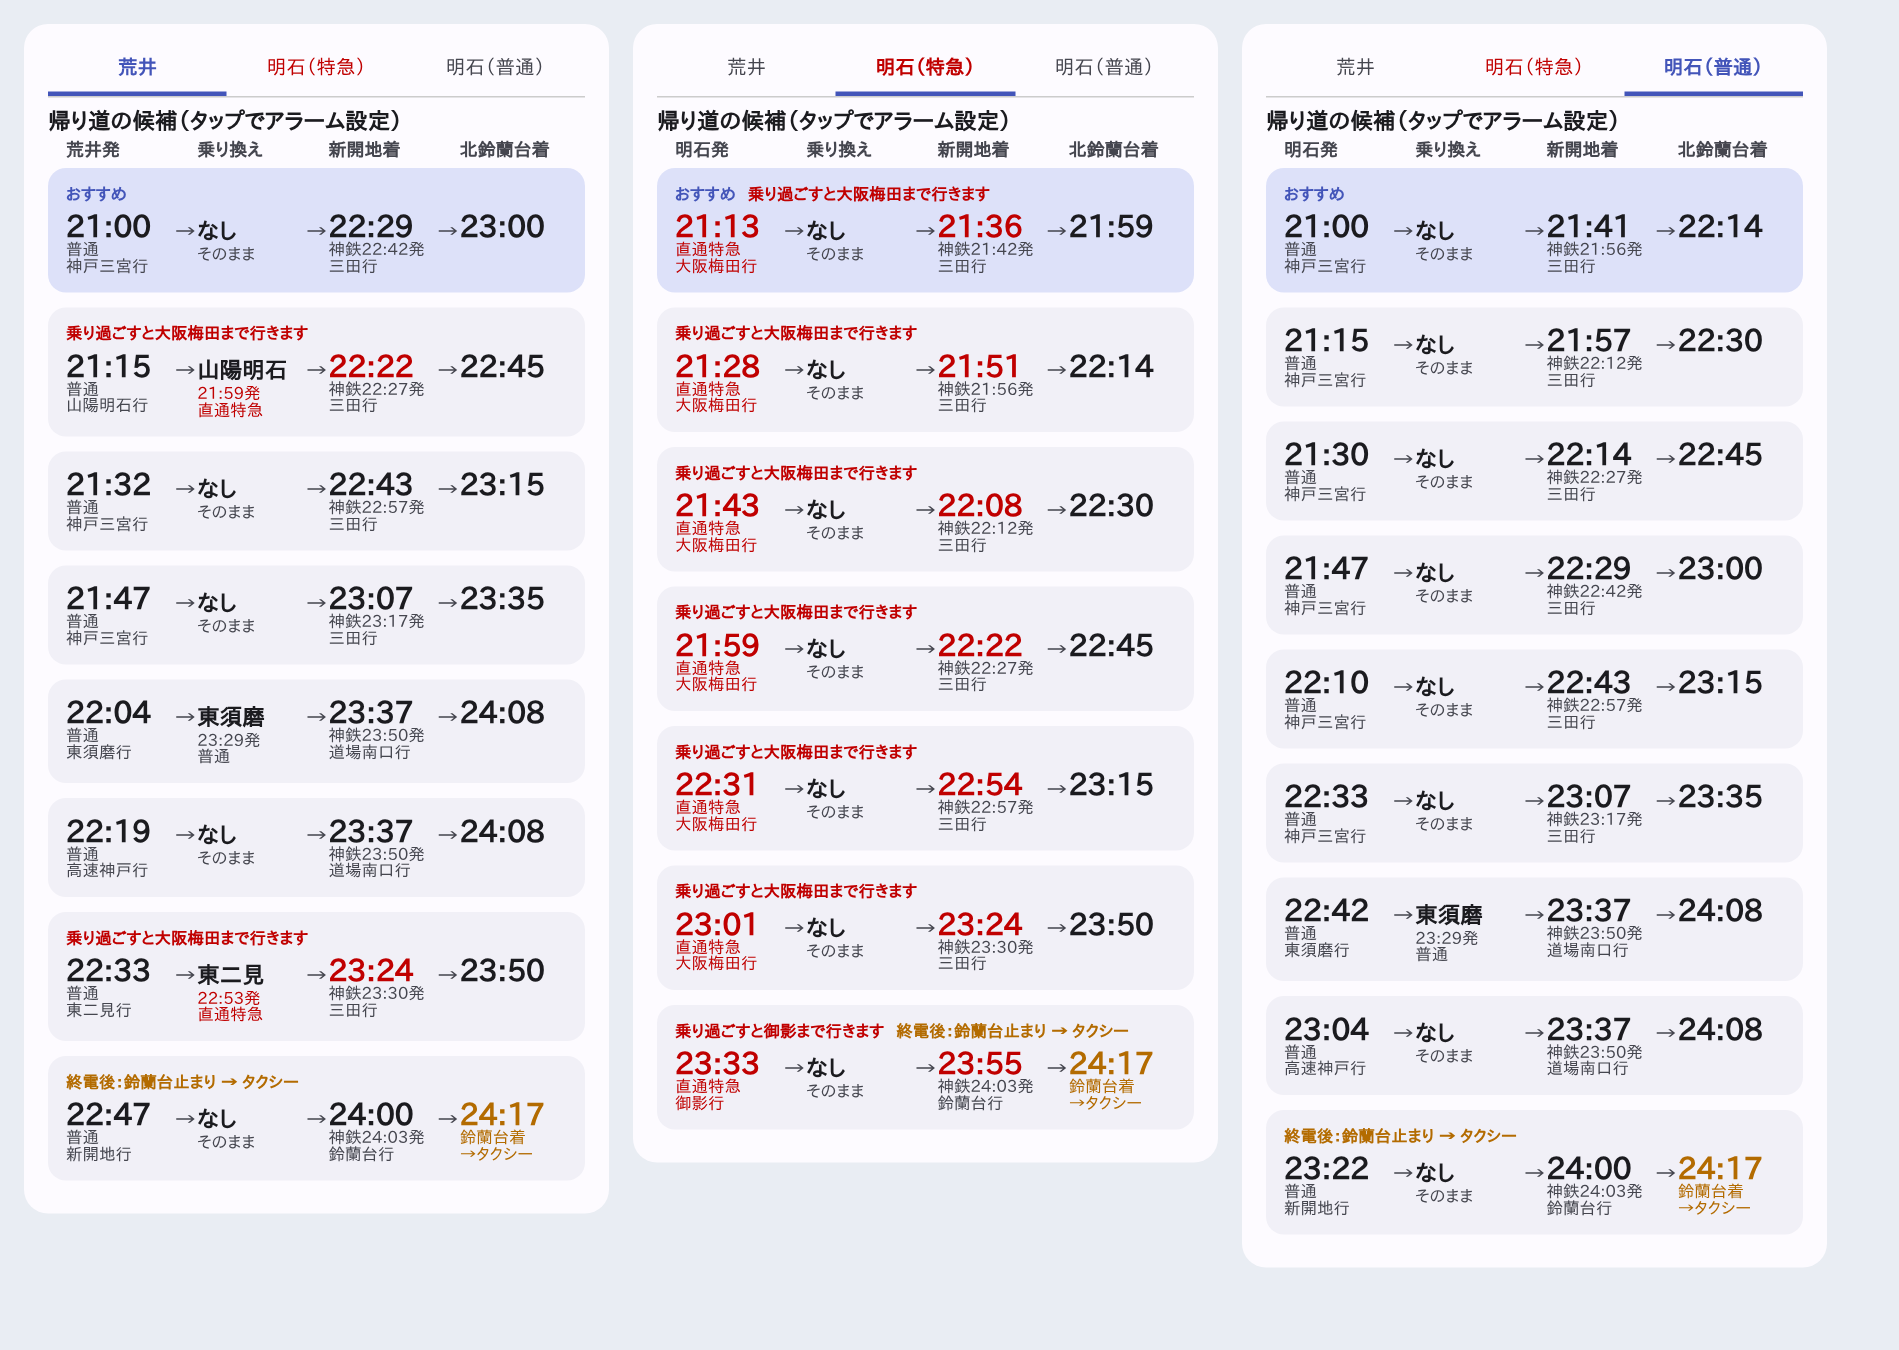
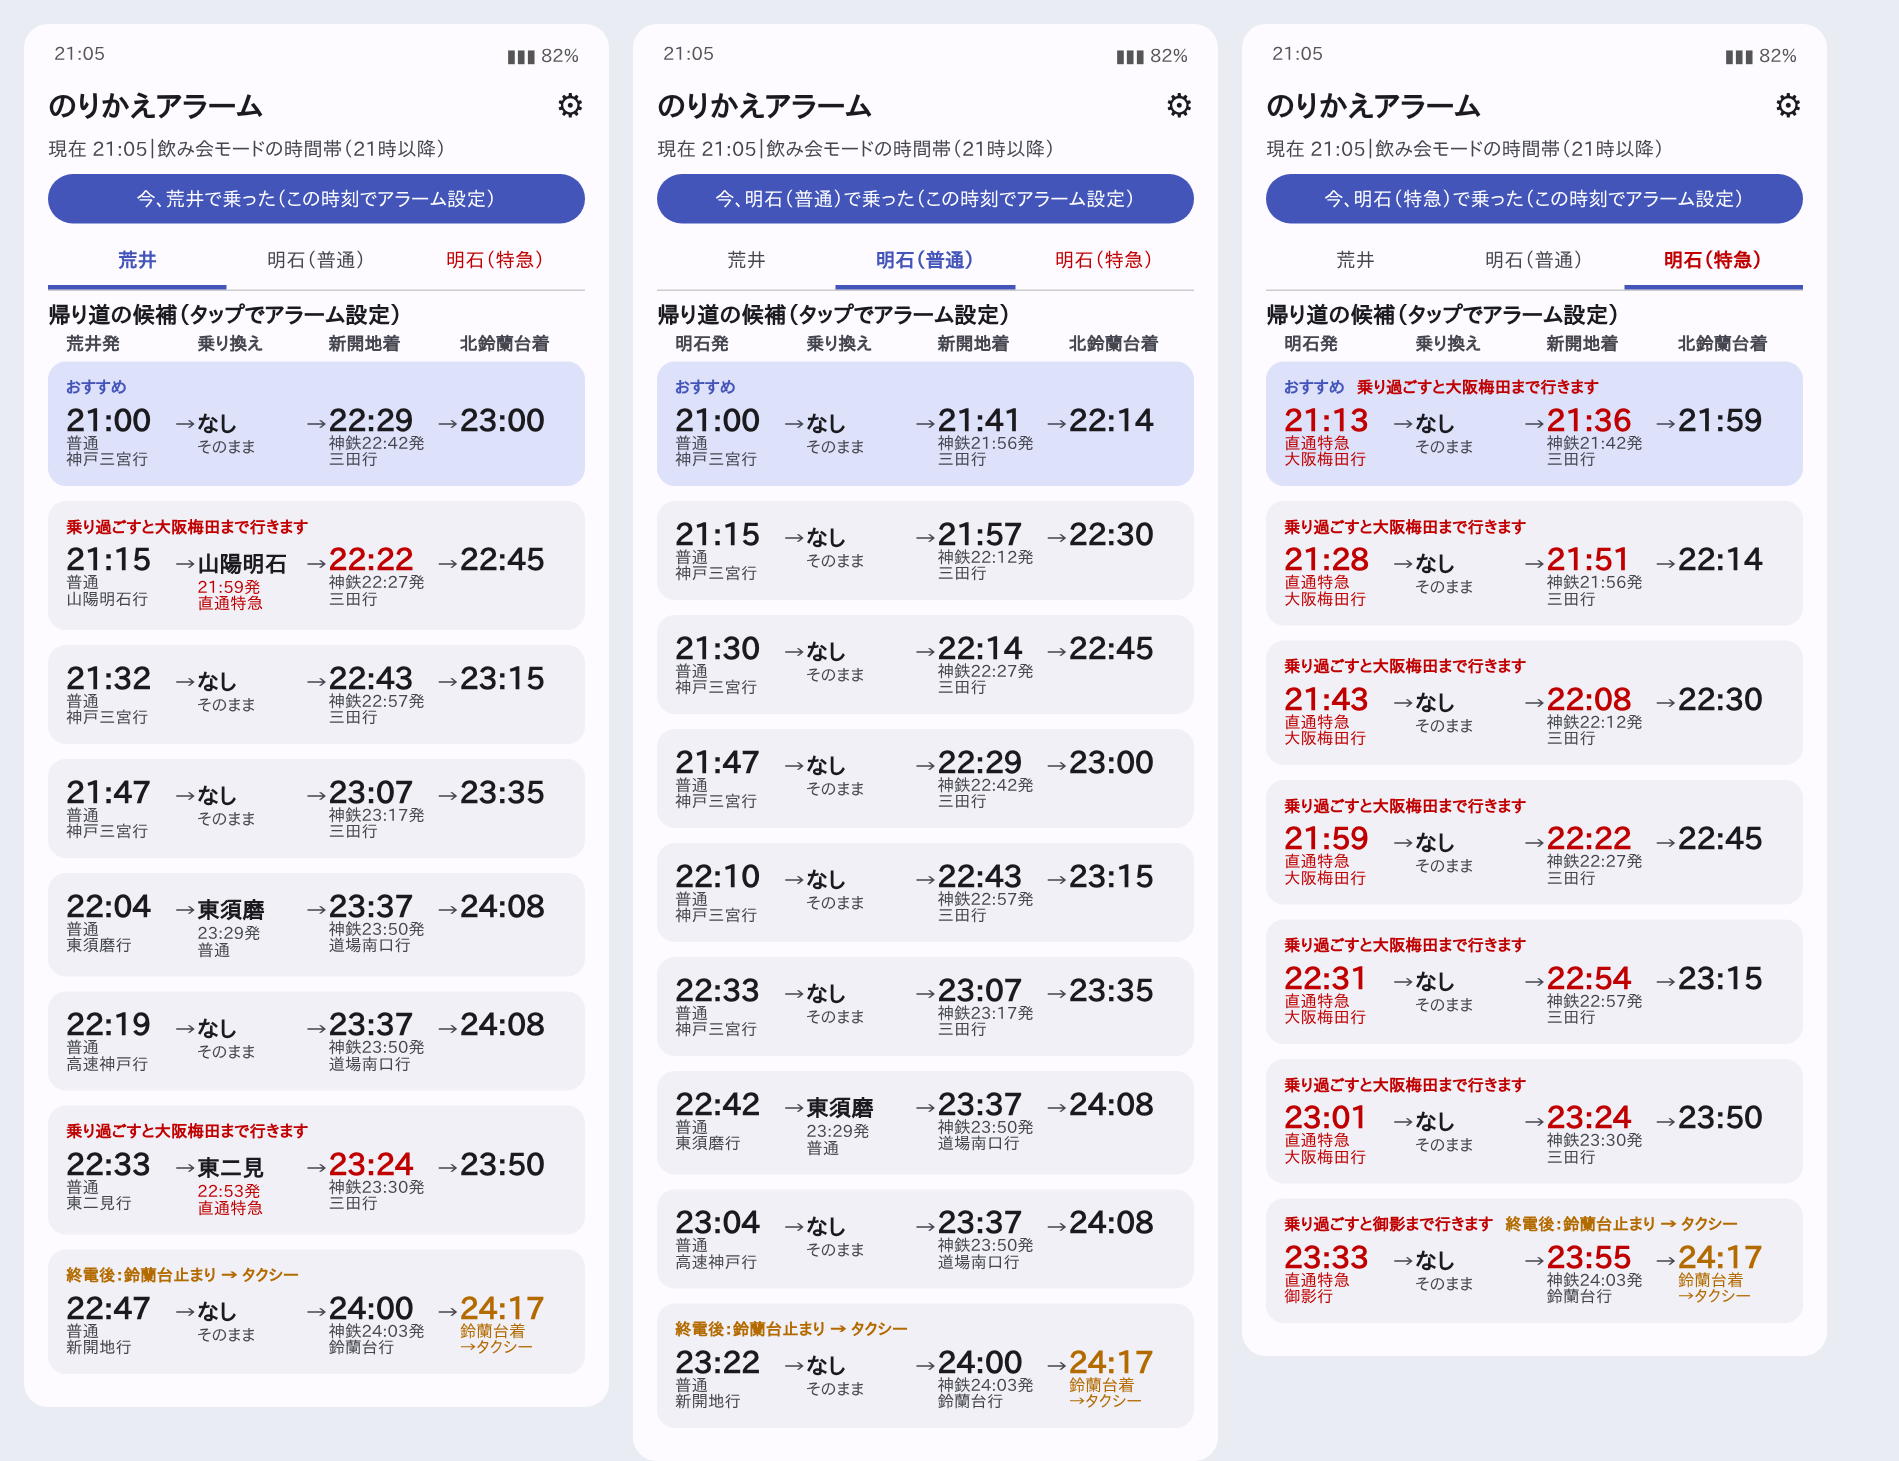
画面上部（時刻・電池・カメラ）を避けて表示し、設定を右上の歯車にまとめる。タブを荒井・明石（普通）・明石（特急）の順に
- Scaffold と TopAppBar でステータスバーの下から表示（Android 15 の端まで表示に対応）
- 右上の歯車から設定画面を開く。平日・休みの設定、位置情報「常に許可」の案内、アラームのテスト、所要分、駅の位置を移動
- 本画面は現在時刻・自動開始しない日の注意・必須の権限・乗車中・タブ・候補一覧だけにする
- タブの並びを 荒井 → 明石（普通）→ 明石（特急） に変更

Claude-Session: https://claude.ai/code/session_019Hjwz1reTSvnaihExDBs3b

diff --git a/app/src/main/java/norikae/app/MainActivity.kt b/app/src/main/java/norikae/app/MainActivity.kt
@@ -11,6 +11,8 @@ import android.os.Bundle
 import android.provider.Settings
 import android.widget.Toast
 import androidx.activity.ComponentActivity
+import androidx.activity.compose.BackHandler
+import androidx.activity.enableEdgeToEdge
 import androidx.activity.compose.rememberLauncherForActivityResult
 import androidx.activity.compose.setContent
 import androidx.activity.result.contract.ActivityResultContracts
@@ -26,7 +28,15 @@ import androidx.compose.foundation.layout.width
 import androidx.compose.foundation.lazy.LazyColumn
 import androidx.compose.foundation.lazy.items
 import androidx.compose.foundation.text.KeyboardOptions
+import androidx.compose.material.icons.Icons
+import androidx.compose.material.icons.automirrored.filled.ArrowBack
+import androidx.compose.material.icons.filled.Settings
 import androidx.compose.material3.AlertDialog
+import androidx.compose.material3.ExperimentalMaterial3Api
+import androidx.compose.material3.Icon
+import androidx.compose.material3.IconButton
+import androidx.compose.material3.Scaffold
+import androidx.compose.material3.TopAppBar
 import androidx.compose.material3.Button
 import androidx.compose.material3.Card
 import androidx.compose.material3.CardDefaults
@@ -45,6 +55,7 @@ import androidx.compose.runtime.getValue
 import androidx.compose.runtime.mutableIntStateOf
 import androidx.compose.runtime.mutableStateOf
 import androidx.compose.runtime.remember
+import androidx.compose.runtime.saveable.rememberSaveable
 import androidx.compose.runtime.setValue
 import androidx.compose.ui.Alignment
 import androidx.compose.ui.Modifier
@@ -85,11 +96,24 @@ class MainActivity : ComponentActivity() {
         Ringer.ensureChannel(this)
         Notifier.ensureChannel(this)
         Sensing.registerAll(this)
-        setContent { MaterialTheme { Surface(Modifier.fillMaxSize()) { MainScreen() } } }
+        enableEdgeToEdge()
+        setContent {
+            MaterialTheme {
+                Surface(Modifier.fillMaxSize()) {
+                    var showSettings by rememberSaveable { mutableStateOf(false) }
+                    if (showSettings) {
+                        SettingsScreen(onBack = { showSettings = false })
+                    } else {
+                        MainScreen(onOpenSettings = { showSettings = true })
+                    }
+                }
+            }
+        }
     }
 
+    @OptIn(ExperimentalMaterial3Api::class)
     @Composable
-    private fun MainScreen() {
+    private fun MainScreen(onOpenSettings: () -> Unit) {
         // 30秒ごと、または操作のたびに作り直す
         var tick by remember { mutableIntStateOf(0) }
         LaunchedEffect(Unit) { while (true) { delay(30_000); tick++ } }
@@ -134,22 +158,41 @@ class MainActivity : ComponentActivity() {
             )
         }
 
+        Scaffold(
+            topBar = {
+                TopAppBar(
+                    title = { Text("のりかえアラーム", fontWeight = FontWeight.Bold) },
+                    actions = {
+                        IconButton(onClick = onOpenSettings) {
+                            Icon(Icons.Filled.Settings, contentDescription = "設定")
+                        }
+                    },
+                )
+            },
+        ) { padding ->
         LazyColumn(
-            Modifier.fillMaxSize().padding(horizontal = 16.dp),
+            Modifier.fillMaxSize().padding(padding).padding(horizontal = 16.dp),
             verticalArrangement = Arrangement.spacedBy(12.dp),
         ) {
             item {
-                Column(Modifier.padding(top = 8.dp)) {
-                    Text("荒井・明石 → 新開地 → 北鈴蘭台", fontSize = 22.sp, fontWeight = FontWeight.Bold)
+                Column {
                     val drinking = DrinkingModeRule().isDrinkingTime(now)
                     Text(
                         "現在 $now｜" + if (drinking) "飲み会モードの時間帯（21時以降）" else "飲み会モードは21時から",
                         color = MaterialTheme.colorScheme.onSurfaceVariant,
+                        fontSize = 13.sp,
                     )
+                    if (!serviceDay) {
+                        Text(
+                            if (!weekday) "今日は土日なので自動開始しません" else "「今日は休み」なので自動開始しません（右上の設定で変更）",
+                            color = RED,
+                            fontSize = 13.sp,
+                        )
+                    }
                 }
             }
 
-            item { PermissionCard() }
+            item { PermissionCard(showOptional = false) }
 
             if (trip != null) {
                 item {
@@ -173,35 +216,7 @@ class MainActivity : ComponentActivity() {
                 }
             }
 
-            item {
-                Card(
-                    colors = CardDefaults.cardColors(
-                        containerColor = if (serviceDay) MaterialTheme.colorScheme.surfaceVariant else MaterialTheme.colorScheme.errorContainer,
-                    ),
-                ) {
-                    Column(Modifier.padding(12.dp)) {
-                        Text(
-                            when {
-                                !weekday -> "今日は土日なので自動開始しません（平日専用。時刻表も平日ダイヤです）"
-                                !serviceDay -> "「今日は休み」にしているので自動開始しません"
-                                else -> "平日：21時以降に荒井・山陽明石から乗ると自動でアラームを設定します"
-                            },
-                            fontSize = 13.sp,
-                        )
-                        if (weekday) {
-                            Row {
-                                FilterChip(
-                                    selected = !serviceDay,
-                                    onClick = { Store.setDayOff(ctx, date, serviceDay); refresh() },
-                                    label = { Text("今日は休み（祝日など）") },
-                                )
-                            }
-                        }
-                    }
-                }
-            }
-
-            // 乗る駅のタブ：荒井 / 明石（特急）/ 明石（普通）
+            // 乗る駅のタブ：荒井 / 明石（普通）/ 明石（特急）
             item {
                 TabRow(selectedTabIndex = tabIndex) {
                     StartTab.entries.forEachIndexed { i, t ->
@@ -220,7 +235,7 @@ class MainActivity : ComponentActivity() {
                         if (TripController.startFromBoardingNow(ctx, tab.origin, tab.filter)) {
                             toast("乗車時刻からアラームを設定しました")
                         } else if (sanyoMissing) {
-                            toast("経路を決められません。下の「荒井→新開地の所要分」を設定してください")
+                            toast("経路を決められません。右上の設定で「荒井→新開地の所要分」を設定してください")
                         } else {
                             toast("この時刻の電車では帰れません（終電後）")
                         }
@@ -257,9 +272,67 @@ class MainActivity : ComponentActivity() {
                 RouteCard(route, recommended = route == recommended) { confirmRoute = route }
             }
 
-            item { AlarmTestCard() }
-            item { SettingsCard(onChanged = refresh) }
             item { Spacer(Modifier.padding(bottom = 24.dp)) }
+        }
+        }
+    }
+
+    /** 設定画面（右上の歯車から開く） */
+    @OptIn(ExperimentalMaterial3Api::class)
+    @Composable
+    private fun SettingsScreen(onBack: () -> Unit) {
+        BackHandler(onBack = onBack)
+        var tick by remember { mutableIntStateOf(0) }
+        val refresh: () -> Unit = { tick++ }
+        val ctx = this
+        val (date, _) = remember(tick) { TripController.now() }
+        val serviceDay = Store.isServiceDay(ctx, date)
+        val weekday = isWeekday(date)
+        Scaffold(
+            topBar = {
+                TopAppBar(
+                    title = { Text("設定", fontWeight = FontWeight.Bold) },
+                    navigationIcon = {
+                        IconButton(onClick = onBack) {
+                            Icon(Icons.AutoMirrored.Filled.ArrowBack, contentDescription = "戻る")
+                        }
+                    },
+                )
+            },
+        ) { padding ->
+            LazyColumn(
+                Modifier.fillMaxSize().padding(padding).padding(horizontal = 16.dp),
+                verticalArrangement = Arrangement.spacedBy(12.dp),
+            ) {
+                // 平日・休みの設定
+                item {
+                    Card {
+                        Column(Modifier.padding(16.dp), verticalArrangement = Arrangement.spacedBy(8.dp)) {
+                            Text("平日・休みの設定", fontWeight = FontWeight.Bold)
+                            Text(
+                                when {
+                                    !weekday -> "今日は土日なので自動開始しません（平日専用。時刻表も平日ダイヤです）"
+                                    !serviceDay -> "「今日は休み」にしているので自動開始しません"
+                                    else -> "平日：21時以降に荒井・山陽明石から乗ると自動でアラームを設定します"
+                                },
+                                fontSize = 13.sp,
+                            )
+                            if (weekday) {
+                                FilterChip(
+                                    selected = !serviceDay,
+                                    onClick = { Store.setDayOff(ctx, date, serviceDay); refresh() },
+                                    label = { Text("今日は休み（祝日など）") },
+                                )
+                                Text("祝日は自動で判定しないので、休みの日はここで止めてください（その日だけ有効）", fontSize = 12.sp)
+                            }
+                        }
+                    }
+                }
+                item { PermissionCard(showOptional = true) }
+                item { AlarmTestCard() }
+                item { SettingsCard(onChanged = refresh) }
+                item { Spacer(Modifier.padding(bottom = 24.dp)) }
+            }
         }
     }
 
@@ -468,7 +541,7 @@ class MainActivity : ComponentActivity() {
     }
 
     @Composable
-    private fun PermissionCard() {
+    private fun PermissionCard(showOptional: Boolean) {
         val ctx = this
         var tick by remember { mutableIntStateOf(0) }
         val basic = rememberLauncherForActivityResult(ActivityResultContracts.RequestMultiplePermissions()) {
@@ -491,7 +564,7 @@ class MainActivity : ComponentActivity() {
         val missingExact = Build.VERSION.SDK_INT >= Build.VERSION_CODES.S && !am.canScheduleExactAlarms()
 
         val requiredOk = missingBasic.isEmpty() && !missingFullScreen && !missingExact
-        if (requiredOk && !missingBackground) return
+        if (requiredOk && (!missingBackground || !showOptional)) return
         if (requiredOk) {
             // 必須はそろっている。「常に許可」は自動開始を使うときだけ必要
             Card(colors = CardDefaults.cardColors(containerColor = MaterialTheme.colorScheme.surfaceVariant)) {
@@ -558,8 +631,8 @@ private enum class StartTab(
     val redLabel: Boolean = false,
 ) {
     ARAI("荒井", Origin.ARAI, { true }),
-    AKASHI_LIMITED("明石（特急）", Origin.AKASHI, { it.type.isLimited }, redLabel = true),
     AKASHI_LOCAL("明石（普通）", Origin.AKASHI, { it.type == TrainType.LOCAL }),
+    AKASHI_LIMITED("明石（特急）", Origin.AKASHI, { it.type.isLimited }, redLabel = true),
 }
 
 /** 駅名・行先の括弧書きを省く（神戸三宮(阪神) → 神戸三宮） */

diff --git a/app/src/main/java/norikae/app/TripController.kt b/app/src/main/java/norikae/app/TripController.kt
@@ -81,7 +81,7 @@ object TripController {
         if (!shouldStart) return
         // 明石は特急・普通どちらに乗ったか分からないので、乗った時刻に一番近い列車にする
         if (!startFromBoardingNow(ctx, left.first, fromForeground = false)) {
-            Notifier.info(ctx, "飲み会モード：乗車を検知しましたが、経路を決められません。アプリで「荒井→新開地の所要分」を設定してください")
+            Notifier.info(ctx, "飲み会モード：乗車を検知しましたが、経路を決められません。アプリ右上の設定で「荒井→新開地の所要分」を設定してください")
         }
     }
 

diff --git a/README.md b/README.md
@@ -8,9 +8,10 @@
 - 新開地（乗り換え）と北鈴蘭台（降車）の2か所で、予告 → 本アラーム → 降りたかの確認
 - 降りていなさそうなら、追加のアラームを1分おきに最大5回鳴らす
 - 普通電車を優先して経路を選ぶ（直通特急は乗り過ごすと梅田まで行くため）
-- 時刻表から帰り道の候補を出し、選んでアラームを設定できる。乗る駅は「荒井」「明石（特急）」「明石（普通）」のタブで切り替え
+- 時刻表から帰り道の候補を出し、選んでアラームを設定できる。乗る駅は「荒井」「明石（普通）」「明石（特急）」のタブで切り替え
 - 北鈴蘭台行きの終電後も、新開地 24:03 の鈴蘭台止まりに間に合う電車は「鈴蘭台からタクシー」の候補として出す（終点の鈴蘭台で起こす）
-- 土日は動かない。祝日は画面の「今日は休み」で止める
+- 土日は動かない。祝日は右上の設定（⚙）の「今日は休み」で止める
+- 右上の設定（⚙）に、平日・休みの設定、アラームのテスト、荒井→新開地の所要分、駅の位置をまとめている
 
 ## インストール（Android）
 
@@ -21,7 +22,7 @@
 5. アプリを開き、画面上部の「権限の設定」を許可する
    - 位置情報（「使用中のみ」で可）、身体活動（乗り物/歩行の判定）、通知、全画面表示、正確なアラーム
    - 荒井を出たら自動で始める機能を使うときだけ、位置情報を「常に許可」にする
-6. 「アラームのテスト」→「1分後に鳴らす」を押して画面を消し、ロック中に鳴るか確かめる
+6. 右上の設定（⚙）→「アラームのテスト」→「1分後に鳴らす」を押して画面を消し、ロック中に鳴るか確かめる
 7. 電池の最適化でアプリが止められないよう、設定 → アプリ → のりかえアラーム → 電池 →「制限なし」にしておく
 
 ## アラームの鳴らし方
